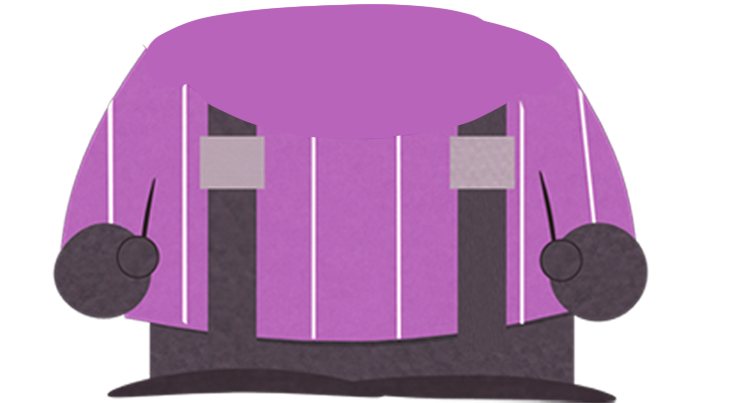
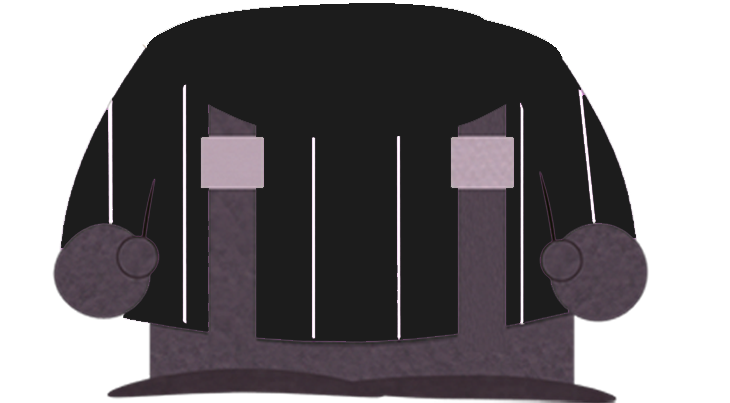
feat: otto, stani

diff --git a/src/Scenes/Scene3.tsx b/src/Scenes/Scene3.tsx
@@ -21,6 +21,8 @@ import { Wiggle } from "../Motion/Wiggle";
 import { Alex } from "../Character/Alex";
 import { Hannes } from "../Character/Hannes";
 import { Danny } from "../Character/Danny";
+import { Otto } from "../Character/Otto";
+import { Stani } from "../Character/Stani";
 
 export const Scene3: React.FC = () => {
   const frame = useCurrentFrame();
@@ -720,8 +722,8 @@ export const Scene3: React.FC = () => {
 
         <Sequence name="Stani Controller">
           <BlinkMotion state={staniState} interval={seconds(2.5)} />
-          <Scale start={0.35} state={staniState} />
-          <Stand at={{ x: -350, y: -350 }} state={staniState} />
+          <Scale start={0.3} state={staniState} />
+          <Stand at={{ x: -350, y: -300 }} state={staniState} />
 
           <Series>
             <Series.Sequence durationInFrames={seconds(6.2)}>
@@ -1390,7 +1392,7 @@ export const Scene3: React.FC = () => {
         </AbsoluteFill>
 
         <Sequence name="Stani">
-          <Klaus characterState={staniState} />
+          <Stani characterState={staniState} />
         </Sequence>
 
         <Sequence name="Rick">
@@ -1414,7 +1416,7 @@ export const Scene3: React.FC = () => {
         </Sequence>
 
         <Sequence name="Otto">
-          <Klaus characterState={ottoState} />
+          <Otto characterState={ottoState} />
         </Sequence>
 
         <Sequence name="Alex">

diff --git a/src/Character/Stani.tsx b/src/Character/Stani.tsx
@@ -1,0 +1,22 @@
+import { staticFile } from "remotion";
+import { Character, characterSchema } from "./Base";
+import { z } from "zod";
+
+export const Stani: React.FC<
+  Omit<z.infer<typeof characterSchema>, "assets">
+> = (props) => {
+  return (
+    <Character
+      {...props}
+      offsets={{
+        head: 380
+      }}
+      assets={{
+        body: staticFile("characters/stani/body.png"),
+        head: staticFile("characters/stani/head.png"),
+        bodyScale: 0.65,
+        headScale: 0.55,
+      }}
+    />
+  );
+};

diff --git a/src/Character/Otto.tsx b/src/Character/Otto.tsx
@@ -1,0 +1,19 @@
+import { staticFile } from "remotion";
+import { Character, characterSchema } from "./Base";
+import { z } from "zod";
+
+export const Otto: React.FC<
+  Omit<z.infer<typeof characterSchema>, "assets">
+> = (props) => {
+  return (
+    <Character
+      {...props}
+      assets={{
+        body: staticFile("characters/otto/body.png"),
+        head: staticFile("characters/otto/head.png"),
+        bodyScale: 0.7,
+        headScale: 0.65,
+      }}
+    />
+  );
+};
